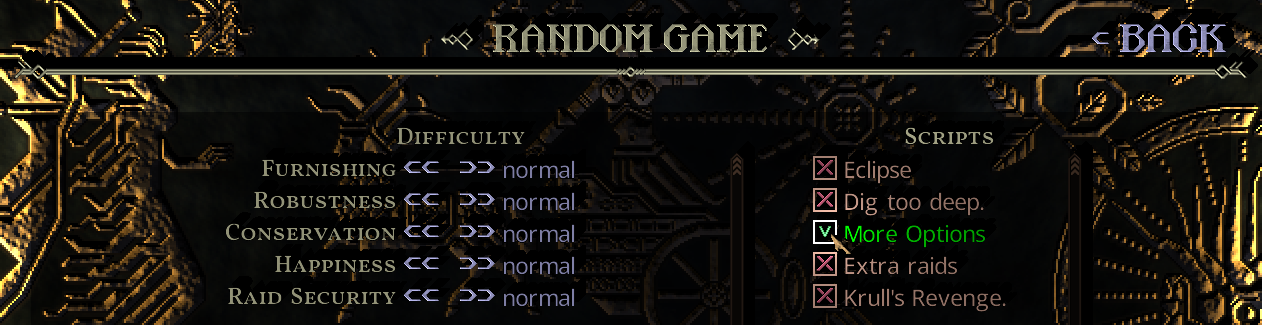
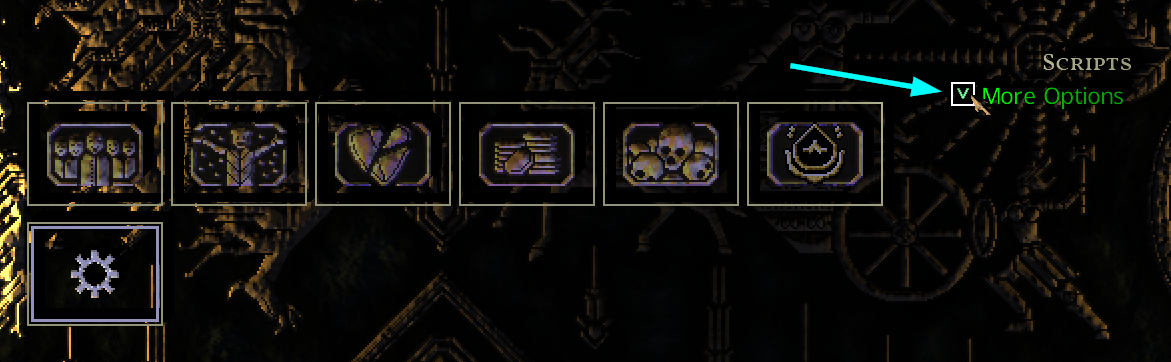
update README.md

diff --git a/README.md b/README.md
@@ -1,6 +1,6 @@
-Currently supporting **V69** of Songs of Syx.
+# More Options
 
-Port for **V65** done by [Senso](https://github.com/SensoHakai) <3.
+Currently supporting **V71** of Songs of Syx.
 
 * [Steam Workshop](https://steamcommunity.com/sharedfiles/filedetails/?id=3044071344)
 * Songs of Syx [Mod SDK](mod-sdk/src/main/java/com/github/argon/sos/mod/sdk) used under the hood.
@@ -14,22 +14,65 @@ Adds a menu with more options for the game:
 * Collect and export game stats into a CSV file
 * Change the likings between your races
 * Export and import room blueprints
+* Manipulate game config files
 * Game crash detection and backup mechanism
 
+## Credits & Contributions
+
+* [Senso](https://github.com/SensoHakai) - port for **V65** 
+* [VizardAlpha](https://github.com/VizardAlpha) - port for *V71*
+
+## Enable the mod when starting a new random game
+
 ![Enable Script](mod/doc/img/enable_script.png)
+
+## Find the menu in-game
+
 ![Button](mod/doc/img/button.png)
+
+## View game performance statistics
+
 ![Stats Widget](mod/doc/img/stats_widget.png)
+
+## Tune all the sound volumes
+
 ![Sounds](mod/doc/img/sounds.png)
+
+## Disable events you don't like
+
 ![Events](mod/doc/img/events.png)
+
+## Control weather effects
+
 ![Weather](mod/doc/img/weather.png)
+
+## Set boosters to give you or a faction bonuses
+
 ![Boosters](mod/doc/img/boosters.png)
+
+## Record metrics about your settlement in a CSV
+
 ![Metrics](mod/doc/img/metrics.png)
+
+## Tune the likings between races
+
 ![Races](mod/doc/img/races.png)
+
+## Get the current world seed 
+
 ![Advanced](mod/doc/img/advanced.png)
+
+## Export or import blueprints to share them with your friends
+
 ![Export and Import Blueprints](mod/doc/img/blueprint_export_import.png)
+
+## Change the game config files in-game
+
+![Config Editor](mod/doc/img/config_editor.png)
+
+## In case something goes wrong, the mod will automatically heal itself
+
 ![Backup](mod/doc/img/backup.png)
-
-
 
 # Getting started
 